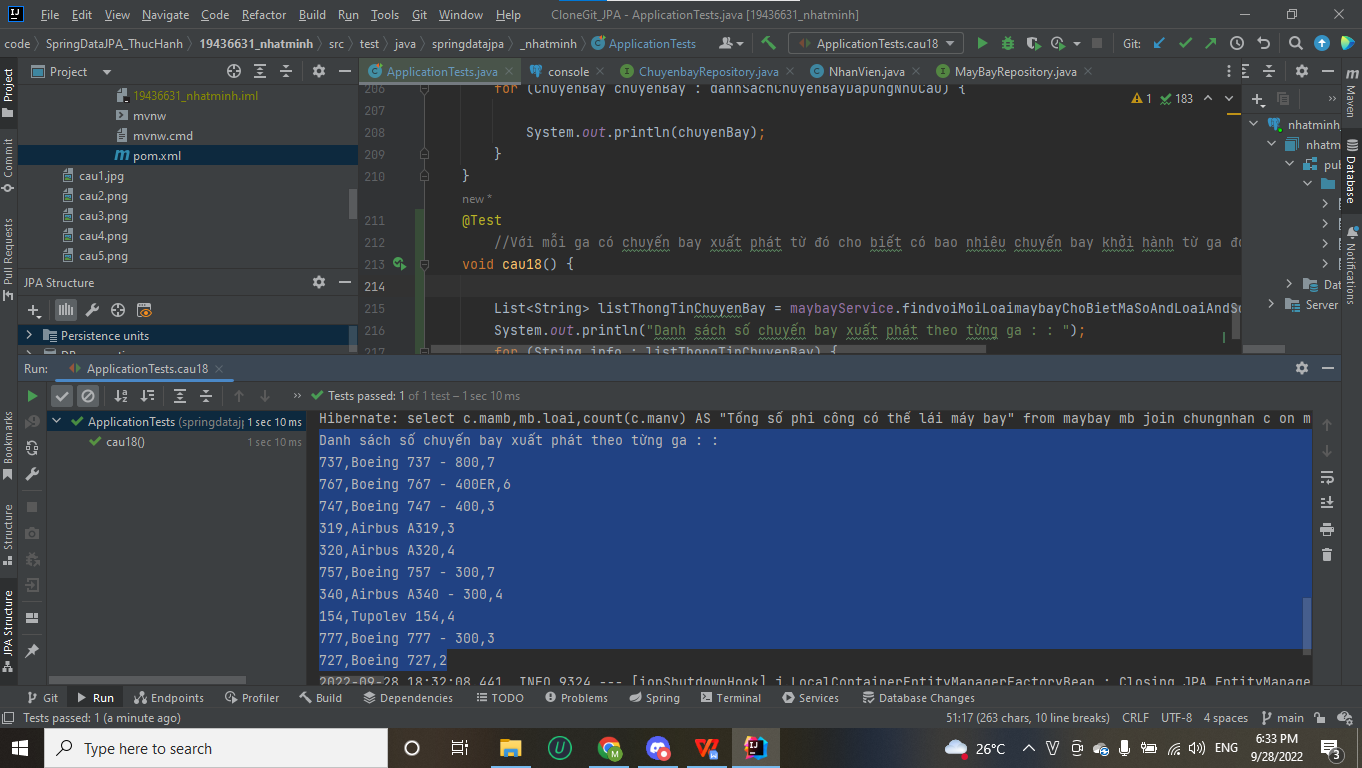
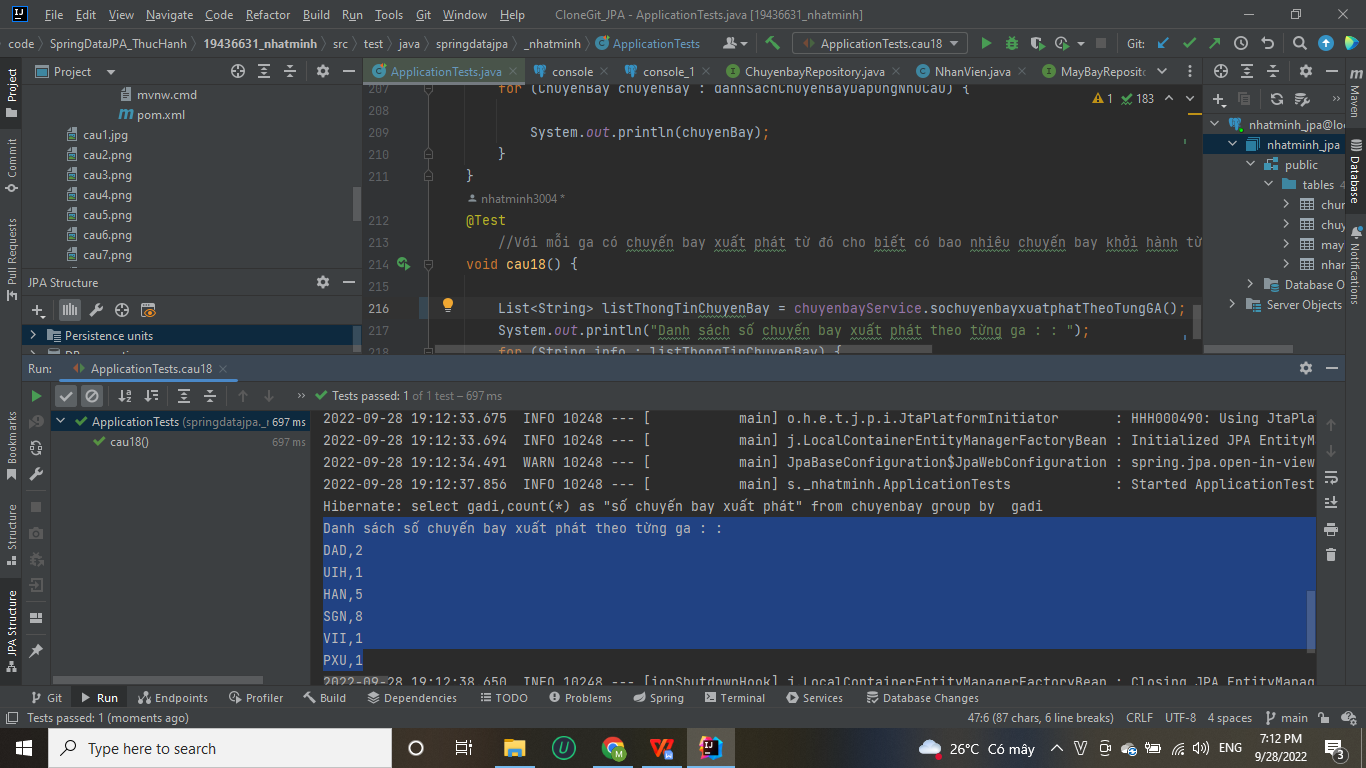
upload fix image 18 and code 18

diff --git a/code/SpringDataJPA_ThucHanh/19436631_nhatminh/src/test/java/springdatajpa/_nhatminh/ApplicationTests.java b/code/SpringDataJPA_ThucHanh/19436631_nhatminh/src/test/java/springdatajpa/_nhatminh/ApplicationTests.java
@@ -34,6 +34,7 @@ class ApplicationTests {
         for (ChuyenBay cb : danhSachChuyenBayDiDaLat) {
             System.out.println(cb);
         }
+
     }
 
     @Test
@@ -212,7 +213,7 @@ class ApplicationTests {
         //Với mỗi ga có chuyến bay xuất phát từ đó cho biết có bao nhiêu chuyến bay khởi hành từ ga đó.
     void cau18() {
 
-        List<String> listThongTinChuyenBay = maybayService.findvoiMoiLoaimaybayChoBietMaSoAndLoaiAndSoPhiCongCoTheLai();
+        List<String> listThongTinChuyenBay = chuyenbayService.sochuyenbayxuatphatTheoTungGA();
         System.out.println("Danh sách số chuyến bay xuất phát theo từng ga : : ");
         for (String info : listThongTinChuyenBay) {
 
